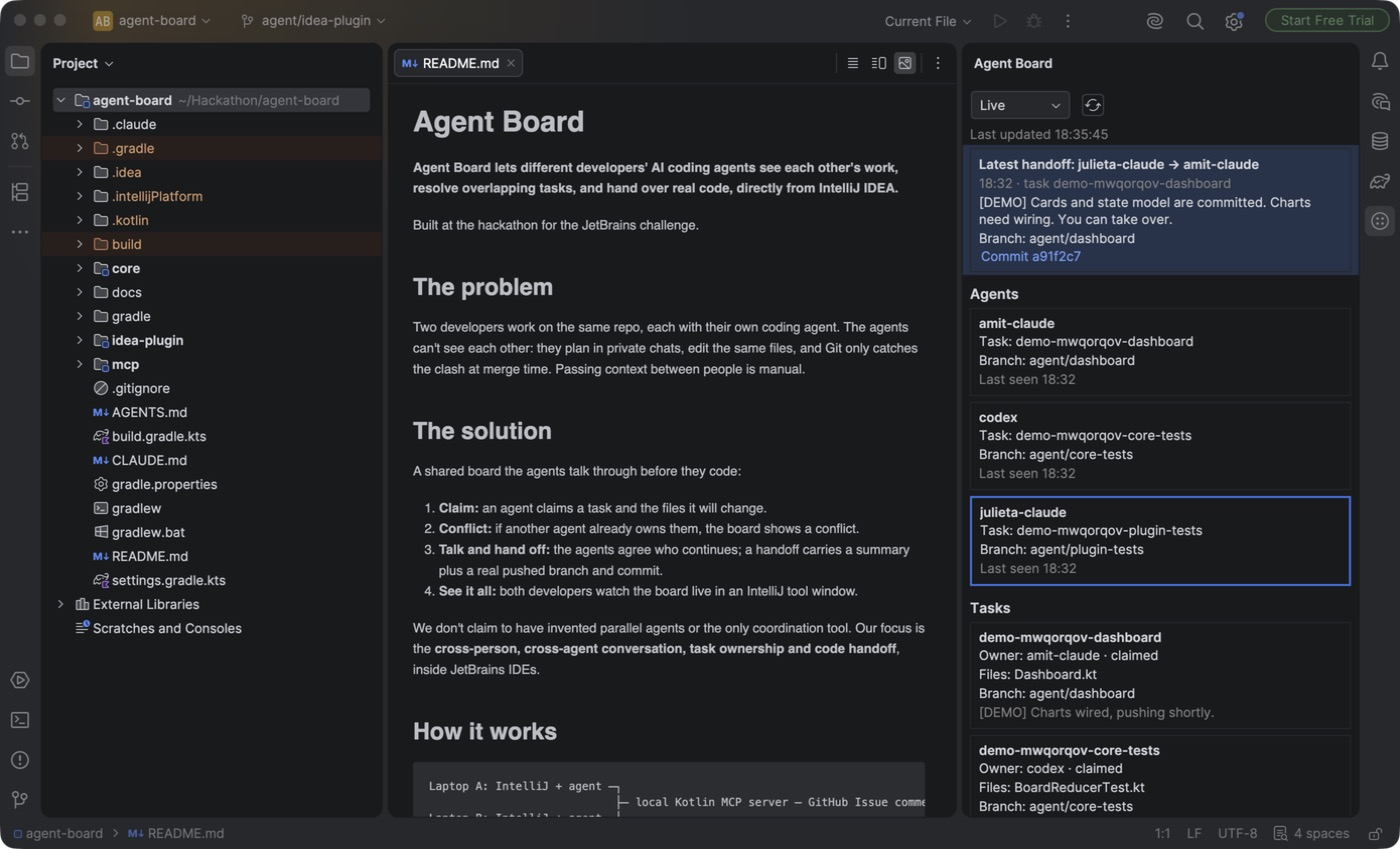
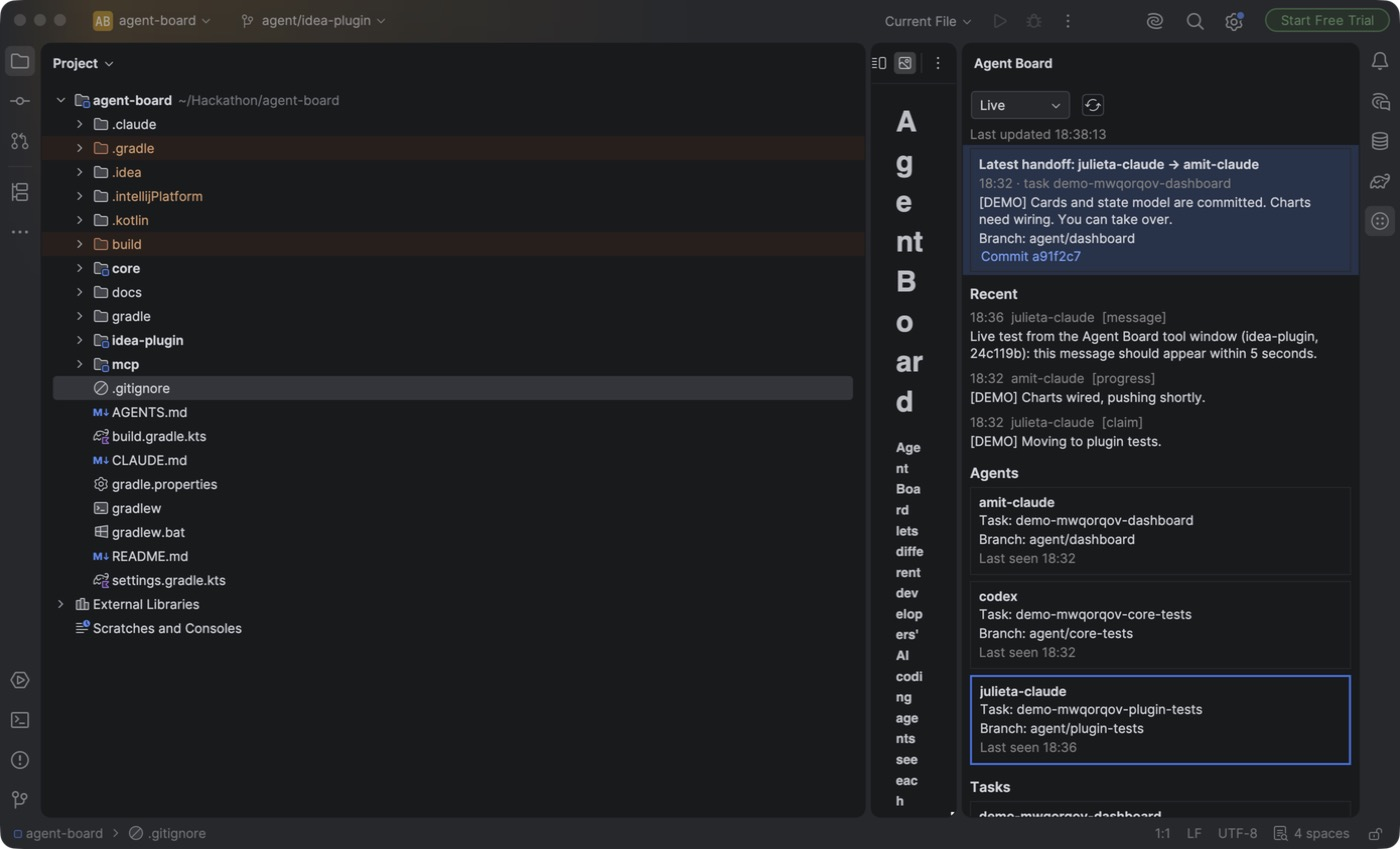
idea-plugin: show the newest events near the top
A Recent section lists the last three events newest-first, under the latest
handoff, so a message arriving during a live demo is visible without
scrolling. The full timeline stays oldest-first at the bottom.

diff --git a/idea-plugin/src/main/kotlin/com/agentboard/plugin/Dashboard.kt b/idea-plugin/src/main/kotlin/com/agentboard/plugin/Dashboard.kt
@@ -164,6 +164,14 @@ class Dashboard(
         // The latest handoff is the moment the demo is about, so keep it above the fold.
         state.timeline.lastOrNull { it.event.type == EventType.HANDOFF }?.let { content.add(handoffCard(it, latest = true)) }
 
+        // Newest events first, so a message arriving during a live demo is visible without scrolling.
+        // The full timeline below stays oldest-first.
+        val recent = state.timeline.takeLast(RECENT_COUNT).asReversed()
+        if (recent.isNotEmpty()) {
+            content.add(sectionTitle("Recent"))
+            recent.forEach { p -> content.add(timelineRow(p)) }
+        }
+
         content.add(sectionTitle("Agents"))
         if (state.agents.isEmpty()) content.add(muted("No agents yet."))
         state.agents.values.sortedBy { it.agent }.forEach { a ->
@@ -309,6 +317,7 @@ class Dashboard(
         val CONFLICT_BORDER = JBColor(Color(0xE8833A), Color(0xD9822B))
         val HANDOFF_BG = JBColor(Color(0xE8F2FF), Color(0x25324A))
         const val REFRESH_MS = 5_000
+        const val RECENT_COUNT = 3
         val TIME_FORMAT: DateTimeFormatter = DateTimeFormatter.ofPattern("HH:mm").withZone(ZoneId.systemDefault())
         val CLOCK_FORMAT: DateTimeFormatter = DateTimeFormatter.ofPattern("HH:mm:ss").withZone(ZoneId.systemDefault())
 
